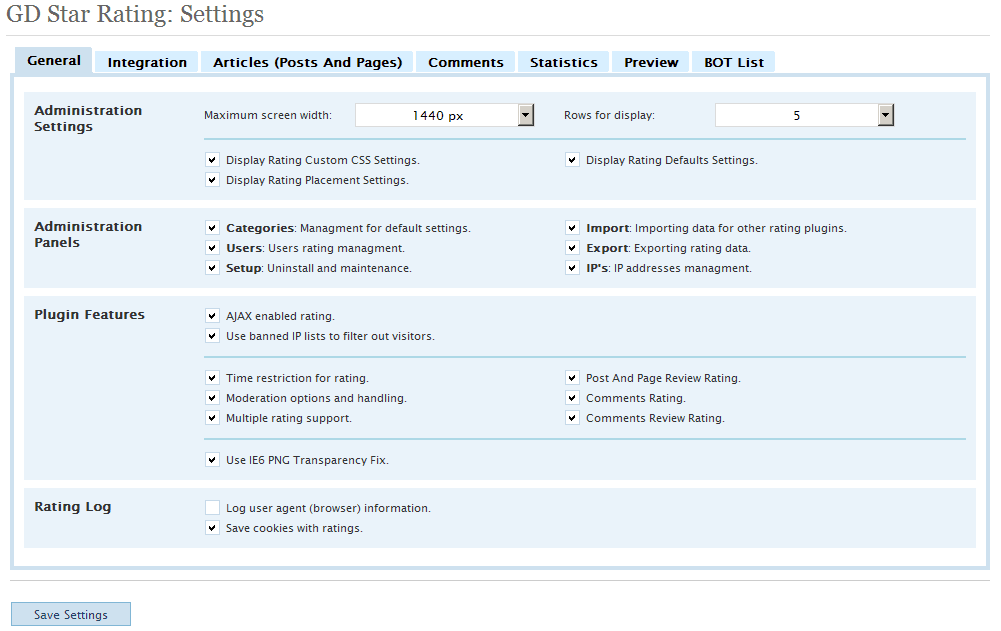
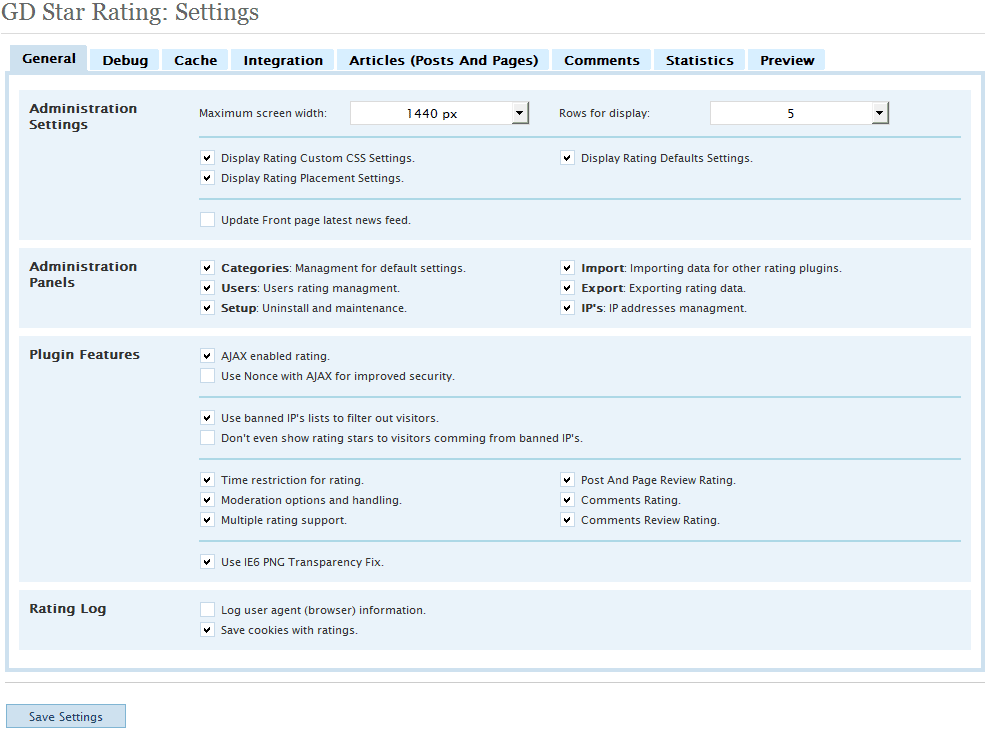
- new screenshots - tinymce3 fix - fixed saving rating posts settings

Changed region(s): [[0.0, 0.0, 1.0, 1.0], [0.546, 0.3312, 0.8493, 0.4517]]

diff --git a/trunk/gd-star-rating.php b/trunk/gd-star-rating.php
@@ -113,9 +113,9 @@ if (!class_exists('GDStarRating')) {
         
         var $default_options = array(
             "version" => "1.0.7",
-            "date" => "2008.12.14.",
-            "status" => "Beta",
-            "build" => 339,
+            "date" => "2008.12.24.",
+            "status" => "Stable",
+            "build" => 341,
             "news_feed_active" => 1,
             "debug_active" => 0,
             "debug_inline" => 1,
@@ -465,7 +465,7 @@ if (!class_exists('GDStarRating')) {
         
         // various rendering
         /**
-        * Renters comment review stara
+        * Renders comment review stars
         * 
         * @param int $value initial rating value
         * @param bool $allow_vote render stars to support rendering or not to
@@ -831,7 +831,7 @@ if (!class_exists('GDStarRating')) {
                     $review = $_POST['gdsr_review'];
                     if ($_POST['gdsr_review_decimal'] != "-1")
                         $review.= ".".$_POST['gdsr_review_decimal'];
-                    GDSRDatabase::save_review($post_id, $review);
+                    GDSRDatabase::save_review($post_id, $review, $old);
                     $old = true;
                 }
                 
@@ -841,7 +841,10 @@ if (!class_exists('GDStarRating')) {
                     GDSRDatabase::save_timer_rules(
                         $post_id, 
                         $timer, 
-                        GDSRHelper::timer_value($timer, $_POST['gdsr_timer_date_value'], $_POST['gdsr_timer_countdown_value'], $_POST['gdsr_timer_countdown_type'])
+                        GDSRHelper::timer_value($timer,
+                            $_POST['gdsr_timer_date_value'],
+                            $_POST['gdsr_timer_countdown_value'],
+                            $_POST['gdsr_timer_countdown_type'])
                     );
                 }
             }
@@ -882,6 +885,7 @@ if (!class_exists('GDStarRating')) {
             $this->wpr8 = get_option('gd-star-rating-wpr8');
 
             if ($this->o["build"] < $this->default_options["build"]) {
+                gdDBInstall::create_tables(STARRATING_PATH);
                 gdDBInstall::upgrade_tables(STARRATING_PATH);
                 $this->o["database_upgrade"] = date("r");
             }

diff --git a/trunk/tinymce3/window.php b/trunk/tinymce3/window.php
@@ -43,11 +43,11 @@
       <tr>
         <td class="gdsrright">
             <label><select id="srShortcode" name="srShortcode" style="width: 200px">
-                <option value="starrating"><?php __("Advanced", "gd-star-rating"); ?>: StarRating</option>
-                <!-- <option value="starrating"><?php __("Advanced", "gd-star-rating"); ?>: StarRaterCustom</option> -->
+                <option value="starrating"><?php _e("Advanced", "gd-star-rating"); ?>: StarRating</option>
+                <!-- <option value="starrating"><?php _e("Advanced", "gd-star-rating"); ?>: StarRaterCustom</option> -->
                 <option value="starrating">--------------------</option>
-                <option value="starreview"><?php __("Simple", "gd-star-rating"); ?>: StarReview</option>
-                <option value="starrater"><?php __("Simple", "gd-star-rating"); ?>: StarRater</option>
+                <option value="starreview"><?php _e("Simple", "gd-star-rating"); ?>: StarReview</option>
+                <option value="starrater"><?php _e("Simple", "gd-star-rating"); ?>: StarRater</option>
             </select></label>
         </td>
       </tr>

diff --git a/trunk/install/db_install.php b/trunk/install/db_install.php
@@ -3,6 +3,9 @@
 /*
 Name:    gdDBInstall
 Version: 1.0.0
+Author:  Milan Petrovic
+Email:   milan@gdragon.info
+Website: http://wp.gdragon.info/
 
 == Copyright ==
 
